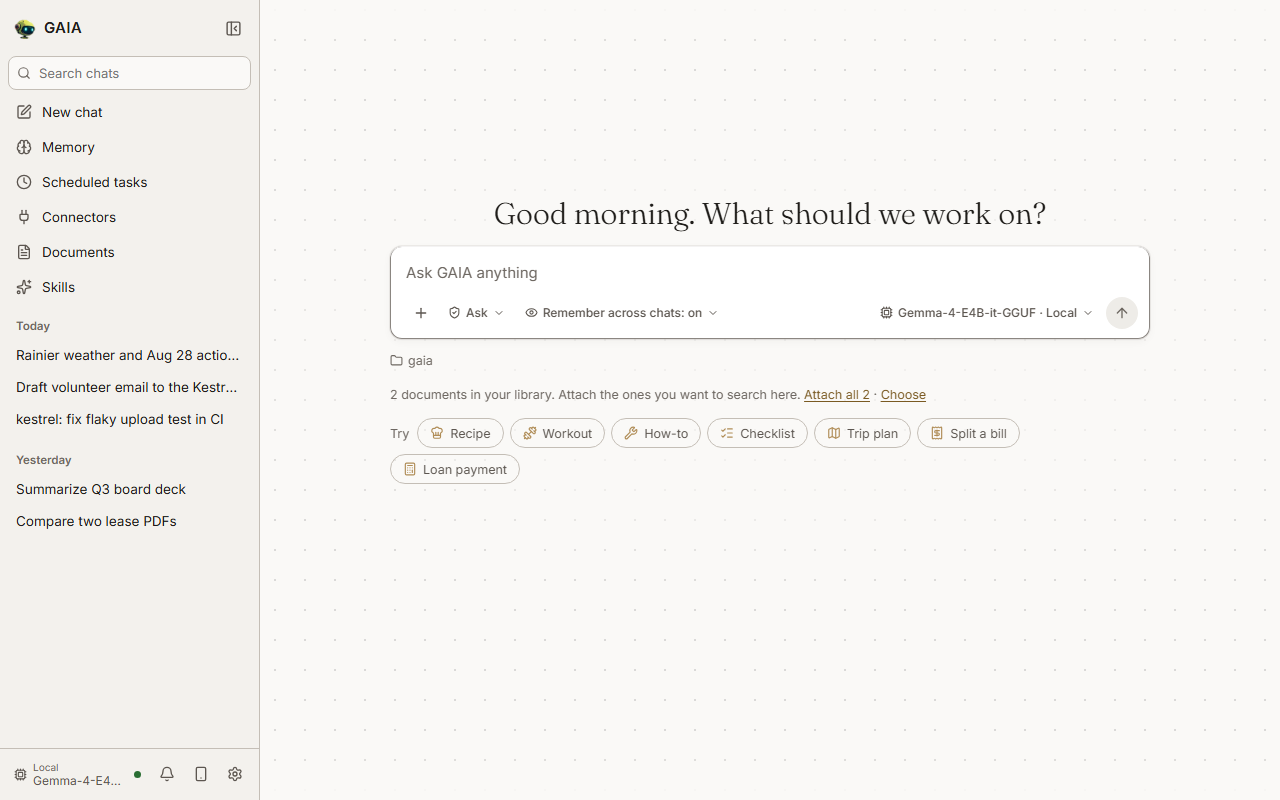
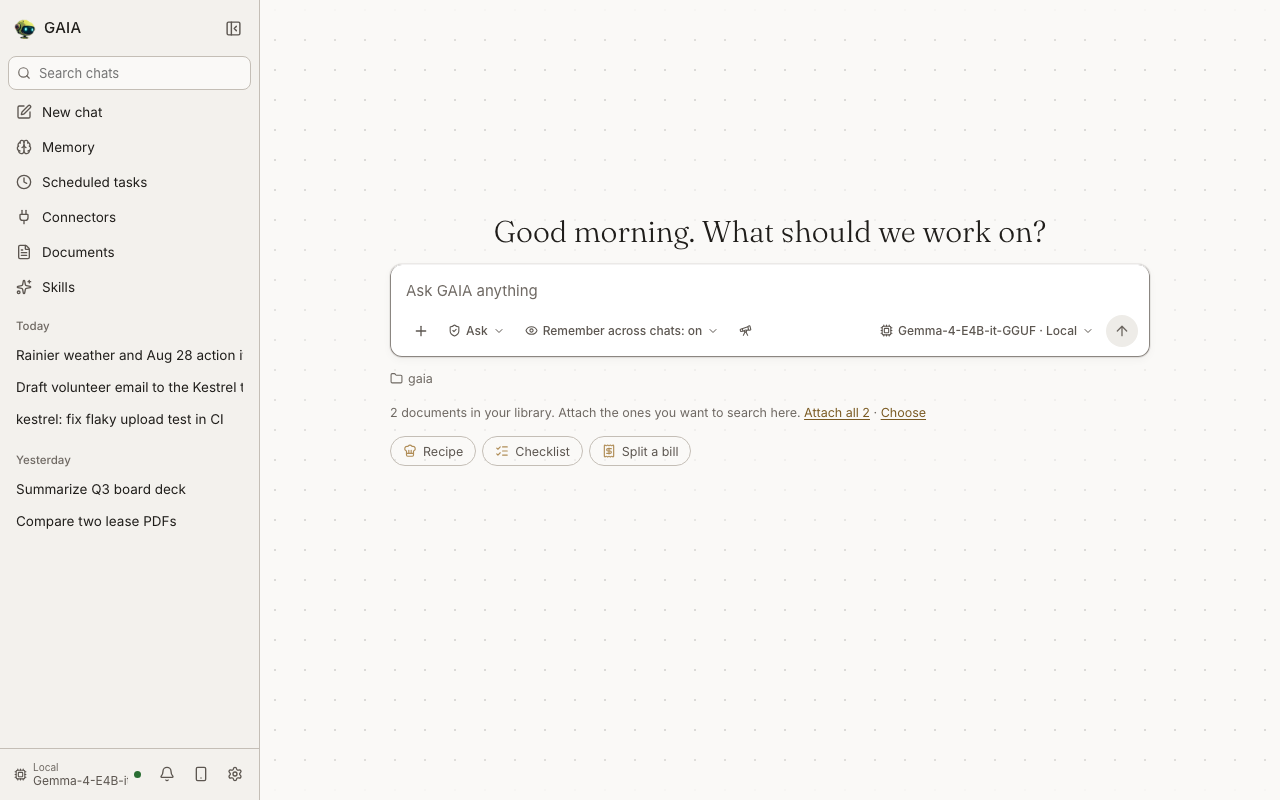
fix(ui): show the starter examples if this PC's tasks don't arrive in 3 s
The starter row waited, unseen, for the start screen with no limit, so a backend that accepted the request and never answered left the new chat with no starters at all. After 3 s the row shows the examples; if the tasks arrive later they take their place. The guide's new-chat image and its alt text now show the three-starter row.

diff --git a/src/gaia/apps/webui/src/components/NewChat.tsx b/src/gaia/apps/webui/src/components/NewChat.tsx
@@ -53,6 +53,8 @@ interface NewChatProps {
 
 /** How often the start screen is asked for again while the assistant is unavailable. */
 export const START_RETRY_MS = 15_000;
+/** How long the starter row waits, unseen, for this PC's tasks before it shows the examples instead. */
+export const STARTERS_WAIT_MS = 3_000;
 
 /** A warm-up shorter than this finishes unseen, rather than flashing "0s". */
 export const WARM_UP_SHOWN_AFTER_S = 2;
@@ -211,6 +213,8 @@ export function NewChat({ onSend, initialText = '', focusRequest = 0, agentMissi
     const [sending, setSending] = useState(false);
     const [start, setStart] = useState<StartScreen | null>(null);
     const [startError, setStartError] = useState<string | null>(null);
+    // A start screen that never answers must not leave the starter row blank for good.
+    const [startSlow, setStartSlow] = useState(false);
     const [agentProblem, setAgentProblem] = useState<AgentProblem | null>(null);
     // A message sent while the chosen agent can't start: it stays in the box.
     const [keptForAgent, setKeptForAgent] = useState(false);
@@ -244,6 +248,11 @@ export function NewChat({ onSend, initialText = '', focusRequest = 0, agentMissi
         loadStart();
         return () => { live.current = false; };
     }, [loadStart]);
+
+    useEffect(() => {
+        const timer = window.setTimeout(() => setStartSlow(true), STARTERS_WAIT_MS);
+        return () => window.clearTimeout(timer);
+    }, []);
 
     useEffect(() => {
         api.listDocuments()
@@ -394,7 +403,7 @@ export function NewChat({ onSend, initialText = '', focusRequest = 0, agentMissi
                 {error && <p className="new-chat-error" role="alert">{error}</p>}
                 {agentRefused && agentMissing && <p className="new-chat-error" role="alert">{t('agentNotice.sendRefused')}</p>}
                 {/* Held unseen until the start screen answers, so examples don't flash up before this PC's tasks and nothing jumps. */}
-                <TryChips cards={start?.cards} pending={!start && !startError} onPick={fillPrompt} disabled={starting || sending} />
+                <TryChips cards={start?.cards} pending={!start && !startError && !startSlow} onPick={fillPrompt} disabled={starting || sending} />
                 {!agentProblem && startError && <AssistantUnavailable detail={startError} onRetry={() => loadStart()} />}
             </div>
         </main>

diff --git a/src/gaia/apps/webui/src/components/__tests__/NewChat.test.tsx b/src/gaia/apps/webui/src/components/__tests__/NewChat.test.tsx
@@ -3,7 +3,7 @@
 
 import { act, fireEvent, render, screen, waitFor } from '@testing-library/react';
 import { afterEach, beforeEach, describe, expect, it, vi } from 'vitest';
-import { NewChat, START_RETRY_MS, greeting, warmUpLine } from '../NewChat';
+import { NewChat, START_RETRY_MS, STARTERS_WAIT_MS, greeting, warmUpLine } from '../NewChat';
 import { useBrowserPaneStore } from '../../stores/browserPaneStore';
 import { useChatStore } from '../../stores/chatStore';
 import { useModelStore } from '../../stores/modelStore';
@@ -198,6 +198,21 @@ describe('NewChat starters', () => {
         await act(async () => { answer(START); });
         expect(await starters()).toEqual(['Ask about your documents', 'Research a topic', 'Recipe']);
         expect(container.querySelector('.try-chips')).not.toHaveClass('is-pending');
+    });
+
+    it('shows the examples if the start screen has not answered after a short wait', async () => {
+        vi.useFakeTimers();
+        try {
+            vi.mocked(api.getStartScreen).mockReturnValue(new Promise(() => {}));
+            const { container } = render(<NewChat onSend={vi.fn()} />);
+            expect(container.querySelector('.try-chips')).toHaveClass('is-pending');
+            await act(async () => { vi.advanceTimersByTime(STARTERS_WAIT_MS); });
+            expect(container.querySelector('.try-chips')).not.toHaveClass('is-pending');
+            const group = screen.getByRole('group', { name: 'Things to try' });
+            expect(Array.from(group.querySelectorAll('button')).map((b) => b.textContent)).toEqual(['Recipe', 'Checklist', 'Split a bill']);
+        } finally {
+            vi.useRealTimers();
+        }
     });
 
     it('offers three examples when this PC has no tasks to offer', async () => {
